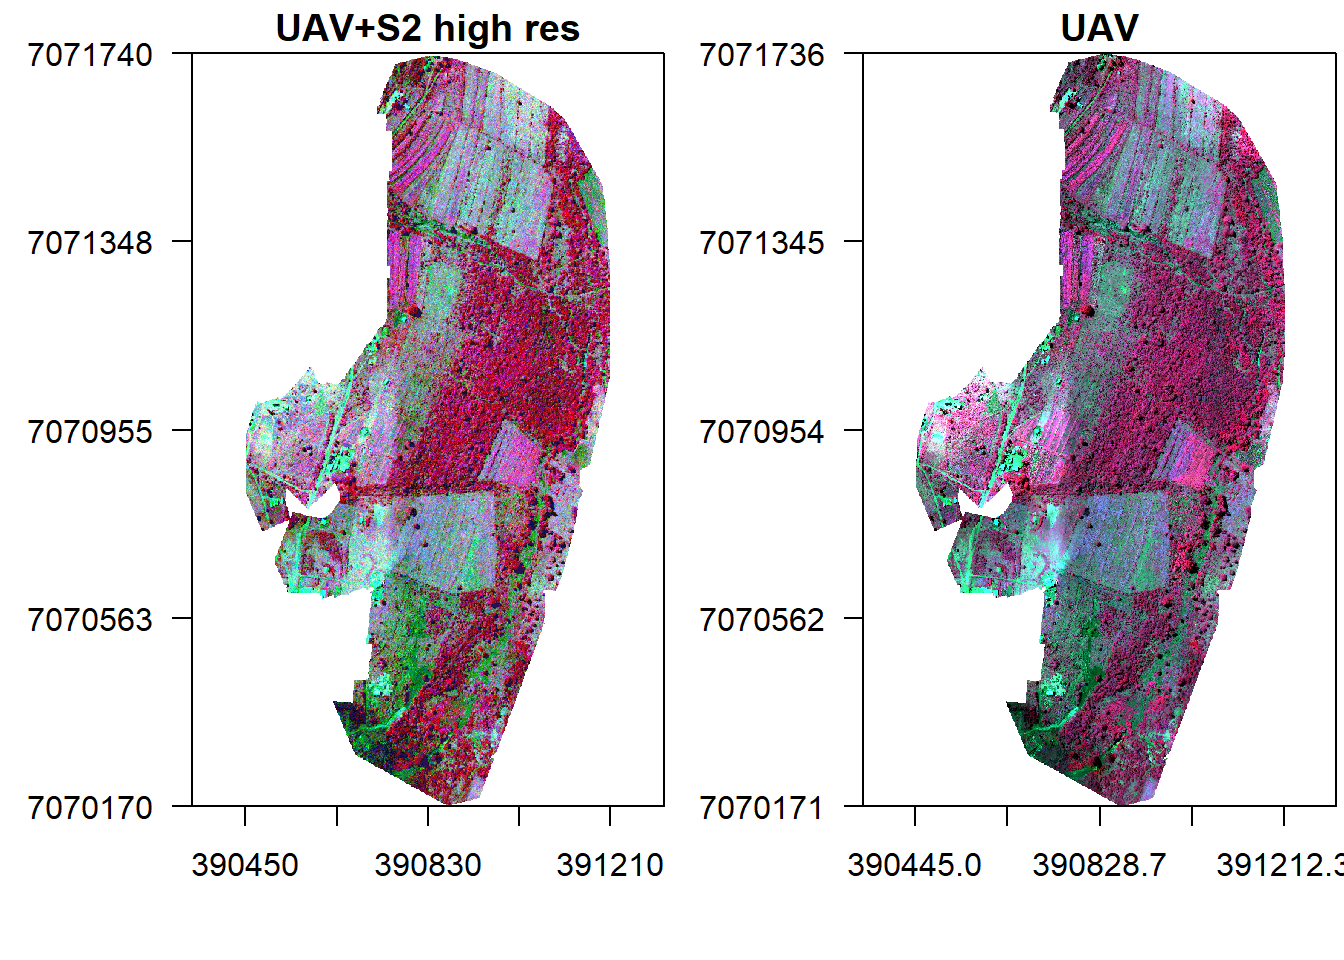
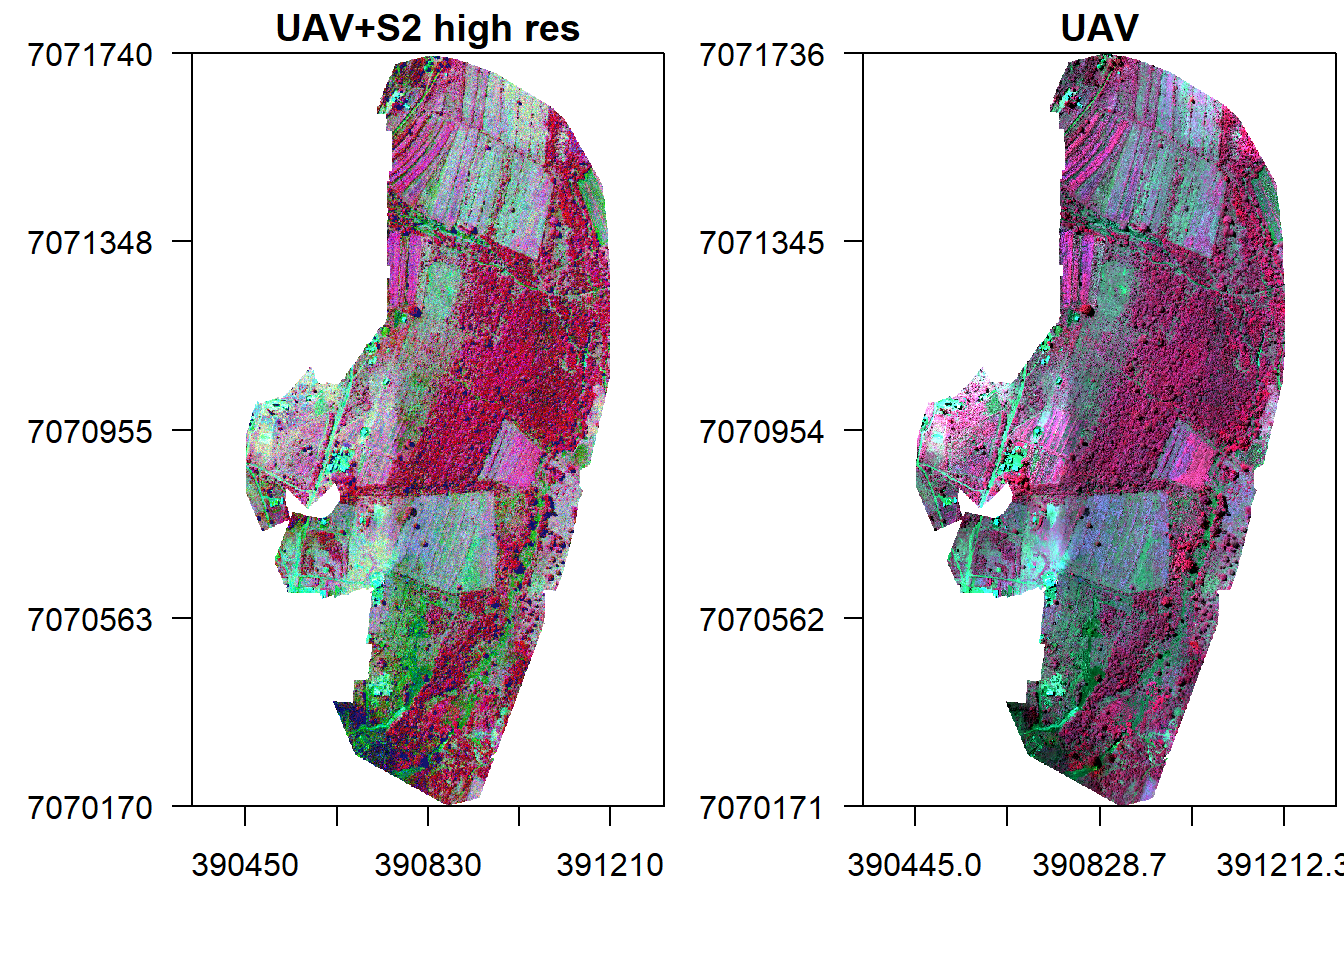
--Prediction accuracy depends on land-cover type

Changed region(s): [[0.1875, 0.0625, 0.4688, 0.8438]]

diff --git a/fusion.html b/fusion.html
@@ -385,7 +385,7 @@ div.tocify {
 
 <div id="introduction" class="section level2">
 <h2>Introduction</h2>
-<p>This tutorial seeks to illustrate how image fusion can be conducted. We use an Unmanned Aerial Vehicle (UAV) and Sentinel 2 optical image acquired within the same area and period. <strong>Data fusion</strong> is a formal framework in which are expressed means and tools for the alliance of data originating from different sources. It aims at obtaining information of greater quality; the exact definition of ”greater quality” will depend upon the application (<a href="https://doi.org/10.1007/978-1-4020-4385-7_11">Ranchin and Wald, 2010</a>).</p>
+<p>This tutorial seeks to illustrate how image fusion can be conducted. We use an Unmanned Aerial Vehicle (UAV) and Sentinel 2 optical image acquired within the same area and period. <strong>Data fusion</strong> is a formal framework in which are expressed means and tools for the alliance of data originating from different sources. It aims at obtaining information of greater quality; the exact definition of “greater quality” will depend upon the application (<a href="https://doi.org/10.1007/978-1-4020-4385-7_11">Ranchin and Wald, 2010</a>).</p>
 <p>The principal motivation for image fusion is to improve the quality of the information contained in the output image in a process known as synergy. A study of existing image fusion techniques and applications shows that image fusion can provide us with an output image with an improved quality. In this case, the benefits of image fusion include:</p>
 <ol style="list-style-type: decimal">
 <li>Extended range of operation.</li>
@@ -409,7 +409,7 @@ cat(&quot;Set variables and start processing\n&quot;)</code></pre>
 <pre><code>## Set variables and start processing</code></pre>
 <pre class="r"><code>Root        &lt;- &#39;D:/JKUAT/RESEARCH_Projects/Eswatini/Data/&#39;
 Path_out    &lt;- paste0(Root,&quot;Output/&quot;)</code></pre>
-<p>Let us load UAV and Sentinel 2 optical images that we will use.</p>
+<p>Load UAV and Sentinel 2 optical images.</p>
 <pre class="r"><code>path &lt;- list.files(paste0(Root,&#39;S2/interim/&#39;),pattern = (&quot;.tif$&quot;), recursive = TRUE, full.names = TRUE)
 path</code></pre>
 <pre><code>## [1] &quot;D:/JKUAT/RESEARCH_Projects/Eswatini/Data/S2/interim/RT_T36JUR_20210418T073611_B02.tif&quot;
@@ -493,7 +493,7 @@ v</code></pre>
 ##               mpolonjeni_05042021m3f1_transparent_reflectance_red.tif  
 ##               ... and 1 more source(s)
 ## names       : b, g, r, nir</code></pre>
-<p>Crop Sentinel 2 image to UAV image extents.</p>
+<p>Crop/clip Sentinel 2 image to UAV image extents.</p>
 <pre class="r"><code>s &lt;- crop(s, ext(v), snap=&quot;near&quot;)</code></pre>
 <p>Display the images side by side.</p>
 <pre class="r"><code>x11()
@@ -516,7 +516,7 @@ res(v1) </code></pre>
 </div>
 <div id="pixel-fusion" class="section level2">
 <h2>Pixel fusion</h2>
-<p>This sections considers fusion techniques which rely on simple pixel based operations on the input image values. The assumption is that the input images are spatially and temporally aligned, semantically equivalent and radiometrically calibrated. Therefore, let us fuse the two images by multiplication and display it against the original ones.</p>
+<p>This sections considers fusion techniques which rely on simple pixel based operations on input image values. The assumption is that the input images are spatially and temporally aligned, semantically equivalent and radiometrically calibrated. Therefore, let us fuse the two images by multiplication and display it against the original ones.</p>
 <pre class="r"><code>#Fuse by multiplication
 f1 &lt;- s * v_r
 f1</code></pre>
@@ -579,34 +579,29 @@ box()
 plotRGB(f3, r=&quot;nir&quot;, g=&quot;r&quot;, b=&quot;g&quot;, stretch=&quot;lin&quot;, main=&quot;Zhou etal&quot;, axes=T, mar = c(4, 5, 1.4, 0.2))
 box()</code></pre>
 <p><img src="fusion_files/figure-html/d9-1.png" width="672" /></p>
-<p>There seem to be some linear relationship between UAV and Sentinel 2 surface reflectance. However it is evident that reflectance values from UAV are higher compare to those in Sentinel 2. So what now?</p>
+<p>There seem to be some linear relationship between UAV and Sentinel 2 surface reflectance. However it is evident that reflectance values from UAV are higher compared to those in Sentinel 2. So what now?</p>
 </div>
 <div id="feature-based-fusion" class="section level2">
 <h2>Feature based fusion</h2>
 <p>In <em>feature fusion</em> we fuse together the features <span class="math inline">\(F_k,k \in{1,2, \dots, K}\)</span>. These features can be vegetation indices like Normalized Difference Index (NDVI) or feature maps that have been made semantically equivalent by transforming them into probabilistic <span class="math inline">\(p(m,n)\)</span>, or likelihood, maps.</p>
 <p>Let us start with NDVI (<span class="math inline">\(\text{NDVI}=\frac{\text{NIR}-\text{Red}}{\text{NIR}+\text{Red}}\)</span>. First compute NDVI for both UAV and S2.</p>
 <pre class="r"><code>n_v &lt;- (subset(v_r,&quot;nir&quot;)-subset(v_r,&quot;r&quot;))/(subset(v_r,&quot;nir&quot;)+subset(v_r,&quot;r&quot;))
-n_s &lt;- (subset(s,&quot;nir&quot;)-subset(s,&quot;r&quot;))/(subset(s,&quot;nir&quot;)+subset(s,&quot;r&quot;))
-x11()
-par(mfrow = c(1, 2), mar = c(5, 5, 1.4, 0.2))#c(bottom, left, top, right)
-plot(n_v, main=&quot;UAV NDVI&quot;)
-plot(n_s, main=&quot;S2 NDVI&quot;)</code></pre>
-<p><img src="fusion_files/figure-html/n1-1.png" width="672" /></p>
+n_s &lt;- (subset(s,&quot;nir&quot;)-subset(s,&quot;r&quot;))/(subset(s,&quot;nir&quot;)+subset(s,&quot;r&quot;))</code></pre>
 <p>How can we fuse the NDVI index? Let us take an average of the two.</p>
 <pre class="r"><code>nf &lt;- mean(n_v, n_s)
 x11()
+par(mfrow = c(2, 2), mar = c(5, 5, 1.4, 0.2))#c(bottom, left, top, right)
+plot(n_v, main=&quot;UAV NDVI&quot;)
+plot(n_s, main=&quot;S2 NDVI&quot;)
 plot(nf, main=&quot;Fused NDVI&quot;)</code></pre>
 <p><img src="fusion_files/figure-html/n2-1.png" width="672" /></p>
-<p>Is there a difference between UAV NDVI only and the fused one? Let’s evaluate the images below.</p>
-<pre class="r"><code>x11()
-plot(n_v, main=&quot;UAV NDVI&quot;)</code></pre>
-<p><img src="fusion_files/figure-html/n3-1.png" width="672" /></p>
-<pre class="r"><code>x11()
-plot(nf, main=&quot;Fused NDVI&quot;)</code></pre>
-<p><img src="fusion_files/figure-html/n3-2.png" width="672" /></p>
+<p>Is there any difference between S2, UAV, and the fused NDVI images as shown above?</p>
 </div>
-<div id="modelling-s2-and-uav-reflectance" class="section level2">
-<h2>Modelling S2 and UAV reflectance</h2>
+<div id="spatial-spectral-fusion" class="section level2">
+<h2>Spatial-spectral fusion</h2>
+<p>Previously we upsampled the UAV image in order to conduct fusion. While this reduces spectral variability it destroys spatial resolution. Therefore, in this section we will first donwsample the Satellite image to match UAV spatial resolution and then proceed to conduct image fusion. This way, we will improve both spatial and spectral information of Sentinel 2 image and spectral information for UAV.</p>
+<div id="modelling-reflectance" class="section level3">
+<h3>Modelling reflectance</h3>
 <ol style="list-style-type: decimal">
 <li>Can we improve the resolution of S2 using UAV?</li>
 <li>Can we predict UAV reflectance in places not imaged by the drones?</li>
@@ -622,7 +617,7 @@ plot(as.vector(subset(s,&#39;nir&#39;)),as.vector(subset(v_r,&#39;nir&#39;)), xl
 <p>Lets create sample points from S2 (10 m resolution) and upscaled UAV (10 m resolution) and use them to create a model that we can predict S2 reflectance based on UAV 1 m resolution. Essentially what we are doing here is to create a model that can predict S2 reflectance at a resolution of 1 m.</p>
 <pre class="r"><code>set.seed(530)
 x11()
-points &lt;- spatSample(v_r, 1500, &quot;random&quot;, as.points=T, na.rm=T, values=F)
+points &lt;- spatSample(v_r, 900, &quot;random&quot;, as.points=T, na.rm=T, values=F)
 plotRGB(v_r, r=&quot;nir&quot;, g=&quot;r&quot;, b=&quot;g&quot;, stretch=&quot;lin&quot;,  main=&quot;UAV+sampling points&quot;, axes=T, mar = c(4, 5, 1.4, 0.2))
 plot(points,add=T)</code></pre>
 <p><img src="fusion_files/figure-html/m2-1.png" width="672" /></p>
@@ -645,7 +640,7 @@ head(vr_p)</code></pre>
 ## 4  4 0.02047731 0.05194858 0.02767093 0.3193594
 ## 5  5 0.04172961 0.09754695 0.07302261 0.4105712
 ## 6  6 0.03550068 0.07566584 0.05827252 0.2950630</code></pre>
-<p>Create a model</p>
+<p>Create a model.</p>
 <pre class="r"><code>data &lt;- data.frame(S2=s2_p[,-1], UAV=vr_p[,-1])
 head(data)</code></pre>
 <pre><code>##         S2.b       S2.g       S2.r S2.nir      UAV.b      UAV.g      UAV.r
@@ -669,7 +664,7 @@ l.model &lt;- lm(S2.b~UAV.b, data=data)
 # Add the fitted line
 abline(l.model, col=&quot;red&quot;)</code></pre>
 <p><img src="fusion_files/figure-html/m4-1.png" width="672" /></p>
-<p>Looks like the relation within the blue band is not linear. Let’s try a non-linear SVm model.</p>
+<p>Looks like the relation within the blue band is not linear. Let’s try a non-linear SVM model.</p>
 <pre class="r"><code>#SVM
 library(e1071)
 svm.model &lt;- svm(S2.b~UAV.b, data=data)
@@ -682,28 +677,19 @@ x11()
 plot(S2.b~UAV.b,data, pch=16)
 points(data$S2.b, svm.pred, col = &quot;blue&quot;, pch=4)
 points(data$S2.b, rf.pred, col = &quot;red&quot;, pch=4)
-legend(&quot;topright&quot;,c(&quot;Data&quot;,&quot;SVM&quot;,&quot;RF&quot;),pch= c(16, 4),col=c(&quot;black&quot;, &quot;blue&quot;,&quot;red&quot;))</code></pre>
+legend(&quot;topright&quot;,c(&quot;Data&quot;,&quot;SVM&quot;,&quot;RF&quot;), pch= c(16, 4, 4),col=c(&quot;black&quot;, &quot;blue&quot;,&quot;red&quot;))</code></pre>
 <p><img src="fusion_files/figure-html/m5-1.png" width="672" /></p>
+</div>
+<div id="predicting-sentinel-2-reflectance" class="section level3">
+<h3>Predicting Sentinel 2 reflectance</h3>
 <p>SVM and RF models have better characterized the relationship between S2 and UAV blue bands. Let predict high resolution S2 band from existing UAV.</p>
-<pre class="r"><code>UAV=subset(v1,&#39;b&#39;)
+<pre class="r"><code>UAV &lt;- v1[[&#39;b&#39;]] 
 names(UAV) &lt;-&#39;UAV.b&#39;
-startTime &lt;- Sys.time() 
-cat(&quot;Start time&quot;, format(startTime),&quot;\n&quot;)</code></pre>
-<pre><code>## Start time 2021-05-20 13:45:35</code></pre>
-<pre class="r"><code>s2h.b &lt;- predict(UAV, rfmod, na.rm=T, progress=&#39;window&#39;)
-timeDiff &lt;- Sys.time() - startTime
-cat(&quot;\n Processing time&quot;, format(timeDiff), &quot;\n&quot;)</code></pre>
-<pre><code>## 
-##  Processing time 51.57604 secs</code></pre>
-<pre class="r"><code>startTime &lt;- Sys.time() 
-cat(&quot;Start time&quot;, format(startTime),&quot;\n&quot;)</code></pre>
-<pre><code>## Start time 2021-05-20 13:46:27</code></pre>
-<pre class="r"><code>s2h.svm &lt;- predict(UAV, svm.model, na.rm=T, progress=&#39;window&#39;)
-timeDiff &lt;- Sys.time() - startTime
-cat(&quot;\n Processing time&quot;, format(timeDiff), &quot;\n&quot;)</code></pre>
-<pre><code>## 
-##  Processing time 1.650603 mins</code></pre>
-<pre class="r"><code>x11()
+s2h.b &lt;- predict(UAV, rfmod, na.rm=T)
+
+s2h.svm &lt;- predict(UAV, svm.model, na.rm=T)
+
+x11()
 par(mfrow = c(1, 2), mar = c(4, 5, 1.4, 0.2)) 
 plot(s2h.svm,  main=&quot;svm S2 1m Blue band&quot;)
 plot(s2h.b, main=&quot;RF S2 1m Blue band&quot;)</code></pre>
@@ -718,7 +704,10 @@ plot(s2h.b, main=&quot;RF S2 1m Blue band&quot;)</code></pre>
 # endCluster()
 # timeDiff &lt;- Sys.time() - startTime
 # cat(&quot;\n Processing time&quot;, format(timeDiff), &quot;\n&quot;)</code></pre>
-<p>But how do we know if this predictions are accurate? We can plot predicted vs actual and also compute RMSE and MAPE using training data. MAPE is given as:</p>
+</div>
+<div id="validation" class="section level3">
+<h3>Validation</h3>
+<p>But how do we know if this predictions are accurate? We can plot predicted vs actual and also compute RMSE and Mean Absolute Percentage Error (MAPE) using training data. MAPE is given as:</p>
 <pre class="r"><code>MAPE &lt;- function (y_pred, y_true){
     MAPE &lt;- mean(abs((y_true - y_pred)/y_true))
     return(MAPE*100)
@@ -730,32 +719,32 @@ plot(s2h.b, main=&quot;RF S2 1m Blue band&quot;)</code></pre>
 <p>So lets compute MAPE and RMSE for both methods.</p>
 <pre class="r"><code>svm.rmse &lt;- rmse(svm.pred-data$S2.b)
 svm.rmse</code></pre>
-<pre><code>## [1] 0.00385778</code></pre>
+<pre><code>## [1] 0.003996155</code></pre>
 <pre class="r"><code>rf.rmse &lt;- rmse(rf.pred-data$S2.b)
 rf.rmse</code></pre>
-<pre><code>## [1] 0.002162497</code></pre>
+<pre><code>## [1] 0.002186289</code></pre>
 <pre class="r"><code>svm.mape &lt;- MAPE(svm.pred, data$S2.b)
 svm.mape</code></pre>
-<pre><code>## [1] 7.435733</code></pre>
+<pre><code>## [1] 7.315199</code></pre>
 <pre class="r"><code>rf.mape &lt;- MAPE(rf.pred, data$S2.b)
 rf.mape</code></pre>
-<pre><code>## [1] 4.529936</code></pre>
-<p>Form the validations Random Forest gives better prediction than Support Vector machines because it has low percentage and RMSE error. In that case we can adopt the high resolution S2 image predicted by RF and fuse it with UAV image at 1m resolution. Note that we only predict the blue band, we can model and predict the other bands and then fuse them.</p>
+<pre><code>## [1] 4.358044</code></pre>
+<p>From the validations Random Forest gives better prediction than Support Vector machines because it has low MAPE and RMSE error. In that case we can adopt the high resolution S2 image predicted/simulated by RF and fuse it with UAV image at 1 m resolution. Note that we only predict the blue band, we can model and predict the other bands and then fuse them.</p>
 <pre class="r"><code>#Green band
 rfmod &lt;- randomForest(S2.g~UAV.g, data=data)
 UAV=subset(v1,&#39;g&#39;)
 names(UAV) &lt;-&#39;UAV.g&#39;
-s2h.g &lt;- predict(UAV, rfmod, na.rm=T, progress=&#39;window&#39;)
+s2h.g &lt;- predict(UAV, rfmod, na.rm=T)
 #red band
 rfmod &lt;- randomForest(S2.r~UAV.r, data=data)
 UAV=subset(v1,&#39;r&#39;)
 names(UAV) &lt;-&#39;UAV.r&#39;
-s2h.r &lt;- predict(UAV, rfmod, na.rm=T, progress=&#39;window&#39;)
+s2h.r &lt;- predict(UAV, rfmod, na.rm=T)
 #NIR band
 rfmod &lt;- randomForest(S2.nir~UAV.nir, data=data)
 UAV=subset(v1,&#39;nir&#39;)
 names(UAV) &lt;-&#39;UAV.nir&#39;
-s2h.nir &lt;- predict(UAV, rfmod, na.rm=T, progress=&#39;window&#39;)
+s2h.nir &lt;- predict(UAV, rfmod, na.rm=T)
 
 #Stack them
 s2h &lt;- stack(x=c(s2h.b,s2h.g,s2h.r,s2h.nir))
@@ -767,9 +756,12 @@ s2h</code></pre>
 ## extent     : 390450, 391210, 7070170, 7071740  (xmin, xmax, ymin, ymax)
 ## crs        : NA 
 ## names      :          b,          g,          r,        nir 
-## min values : 0.02290628, 0.03504863, 0.02560420, 0.11839891 
-## max values : 0.06080442, 0.08018391, 0.10138434, 0.30508668</code></pre>
-<p>However, the predicted reflectance ranges in all bands except NIR as very low. Why could this be so? Now lets create a high resolution fused image using Zhou’s approach.</p>
+## min values : 0.02305458, 0.03414621, 0.02679058, 0.12475280 
+## max values : 0.06060897, 0.08070807, 0.10184987, 0.30137640</code></pre>
+<p>However, the predicted reflectance ranges in all bands except NIR are very low. Why could this be so? Now lets create a high resolution fused image using Zhou’s approach.</p>
+</div>
+<div id="fusion" class="section level3">
+<h3>Fusion</h3>
 <pre class="r"><code>s2h.fused &lt;- (rast(s2h)/v1)*v1
 s2h.fused</code></pre>
 <pre><code>## class       : SpatRaster 
@@ -779,8 +771,8 @@ s2h.fused</code></pre>
 ## coord. ref. :  
 ## source      : memory 
 ## names       :          b,          g,          r,        nir 
-## min values  : 0.02290628, 0.03504863, 0.02560420, 0.11839891 
-## max values  : 0.06080442, 0.08018391, 0.10138434, 0.30508668</code></pre>
+## min values  : 0.02305458, 0.03414621, 0.02679058, 0.12475280 
+## max values  : 0.06060897, 0.08070807, 0.10184987, 0.30137640</code></pre>
 <pre class="r"><code>x11()
 par(mfrow = c(1, 2), mar = c(4, 5, 1.4, 0.2)) 
 plotRGB(s2h.fused, r=&quot;nir&quot;, g=&quot;r&quot;, b=&quot;g&quot;, stretch=&quot;lin&quot;,  main=&quot;UAV+S2 high res&quot;, axes=T, mar = c(4, 5, 1.4, 0.2))
@@ -788,11 +780,60 @@ box()
 plotRGB(v, r=&quot;nir&quot;, g=&quot;r&quot;, b=&quot;g&quot;, stretch=&quot;lin&quot;, main=&quot;UAV&quot;, axes=T, mar = c(4, 5, 1.4, 0.2))
 box()</code></pre>
 <p><img src="fusion_files/figure-html/m9-1.png" width="672" /></p>
-<p>The other would be to upsample the uAV image to 10 m resolution and use S2 to predict UAV (low resolution of 10 m) in areas not covered by the drone and use it in fusion… However this approach would require consideration of similar land-cover. For instance, we can not train the model in an area with different land-cover say cropland and predict in another area with say Forest. Food for thought.</p>
+<p>The other option would be use S2 to predict UAV in areas not covered by the drone and then fuse it with S2. However this approach would require consideration of similar land-cover. For instance, we can not train the model in an area with different land-cover say cropland and predict in another area with say Forest. Food for thought.</p>
+<p>But let’s step back a little, could sampling from land-cover categories have improved prediction of high resolution S2 done previously with RF? To test this, let us perform a K-means classification and sample from its land-cover map.</p>
+<pre class="r"><code>image &lt;- v_r
+image[is.na(image)] &lt;- 0
+nclass &lt;- 4
+system.time(
+E &lt;- kmeans(as.data.frame(image, na.rm=F), nclass, iter.max = 100, nstart = 9)
+)</code></pre>
+<pre><code>##    user  system elapsed 
+##    0.11    0.00    0.11</code></pre>
+<pre class="r"><code>k.map &lt;- image[[1]]
+values(k.map) &lt;- E$cluster
+k.map[is.na(v_r[[1]])] &lt;- NA
+plot(k.map)</code></pre>
+<p><img src="fusion_files/figure-html/m10-1.png" width="672" /></p>
+<p>Sample points using stratified random sampling based on the K-means land-cover map.</p>
+<pre class="r"><code>set.seed(530)
+points &lt;- spatSample(k.map, 900, &quot;stratified&quot;, as.points=T, na.rm=T, values=F)
+x11()
+plot(k.map,  main=&quot;K-means +sampling points&quot;, axes=T, mar = c(4, 5, 1.4, 0.2), col=topo.colors(max(values(k.map),na.rm=T)))
+plot(points,add=T)</code></pre>
+<p><img src="fusion_files/figure-html/m11-1.png" width="672" /></p>
+<p>Use the stratified randomly sample points to train and predict simulated high resolution S2.</p>
+<pre class="r"><code>s2_p &lt;- extract(s, points, drop=F)
+head(s2_p)</code></pre>
+<pre><code>##   ID          b          g          r    nir
+## 1  1 0.04770000 0.05939999 0.07750000 0.1492
+## 2  2 0.03960000 0.05549999 0.07099999 0.2073
+## 3  3 0.03320000 0.04880000 0.05010000 0.2258
+## 4  4 0.03379999 0.04790000 0.06040000 0.1966
+## 5  5 0.04420000 0.06200000 0.07959999 0.2172
+## 6  6 0.04070000 0.05980000 0.06649999 0.2101</code></pre>
+<pre class="r"><code>vr_p &lt;- extract(v_r, points, drop=F)
+head(vr_p)</code></pre>
+<pre><code>##   ID          b          g          r       nir
+## 1  1 0.05413008 0.09205989 0.11132049 0.2734993
+## 2  2 0.04446261 0.10010008 0.08397383 0.4695161
+## 3  3 0.03073439 0.07668109 0.05490024 0.4001549
+## 4  4 0.02435945 0.06213900 0.04357978 0.3155672
+## 5  5 0.03281799 0.06734130 0.06080524 0.2811245
+## 6  6 0.03464006 0.07732372 0.05422943 0.3122228</code></pre>
+<pre class="r"><code>data &lt;- data.frame(S2=s2_p[,-1], UAV=vr_p[,-1])
+rfmod &lt;- randomForest(S2.b~UAV.b, data=data)
+rf.pred &lt;- predict(rfmod, data)</code></pre>
+<p>Lets evaluate if stratified random sampling improved RF accuracy.</p>
+<pre class="r"><code>rf.rmse &lt;- rmse(rf.pred-data$S2.b)
+rf.rmse</code></pre>
+<pre><code>## [1] 0.00193131</code></pre>
+<pre class="r"><code>rf.mape &lt;- MAPE(rf.pred, data$S2.b)
+rf.mape</code></pre>
+<pre><code>## [1] 4.36695</code></pre>
+<p>We can see that RMSE and MAPE have reduced by small margins compared to the case of random sampling. Thus there is a chance that sampling over different land-cover improves prediction.</p>
+<p>As an assignment now predict S2 high resolution using a RF model trained on stratified random samples from K-means classifier.</p>
 </div>
-<div id="spatial-spectral-fusion" class="section level2">
-<h2>Spatial-spectral fusion</h2>
-<p>Previously we downsampled the UAV image in order to conduct fusion. While this reduces spectral variability it destroys spatial resolution. Therefore, in this section we will first upsample the Satellite image to match UAV spatial resolution and then proceed to condut image fusion. This way, we will improve both spatial and spectral information of Sentinel 2 image.</p>
 </div>
 <div id="references" class="section level2">
 <h2>References</h2>
